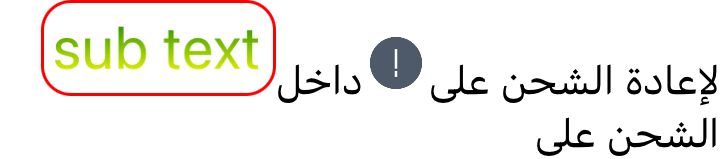
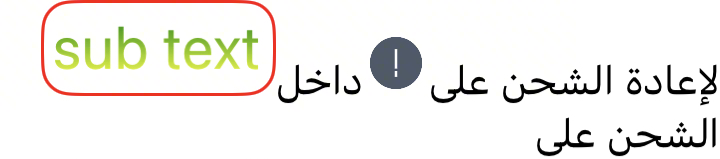
[Infra] use 15.6.1 macos runners and remove bundler
1. use the 15.6.1 macos with Xcode26.3
2. Since using CocoaPods via Bundler tends to cause inconsistent issues across different environments, we will no longer use Bundler and instead rely directly on the globally installed CocoaPods.

Pull request: [Infra] use 15.6.1 macos runners and remove bundler
1. use the 15.6.1 macos with Xcode26.3
2. Since using CocoaPods via Bundler tends to cause inconsistent issues across different environments, we will no longer use Bundler and instead rely directly on the globally installed CocoaPods.

<!--
  Thank you for submitting a pull request!

  We appreciate the time and effort you have invested in making these changes. Please ensure that you provide enough information to allow others to review your pull request.

  Upon submission, your pull request will be automatically assigned with reviewers.

  If you want to learn more about contributing to this project, please visit: https://github.com/lynx-family/lynx/blob/develop/CONTRIBUTING.md.
-->

## Summary

<!-- Can you explain the reasoning behind implementing this change? What problem or issue does this pull request resolve? -->

<!-- It would be helpful if you could provide any relevant context, such as GitHub issues or related discussions. -->

## Checklist

<!--- Check and mark with an "x" -->

- [ ] Tests updated (or not required).
- [ ] Documentation updated (or not required).

Changed region(s): [[0.0306, 0.0503, 0.3972, 0.5535], [0.0611, 0.478, 0.3667, 0.6038], [0.0611, 0.0, 0.3667, 0.1258]]

diff --git a/platform/darwin/ios/lynx/gesture/LynxCustomGestureRecognizerUnitTest.m b/platform/darwin/ios/lynx/gesture/LynxCustomGestureRecognizerUnitTest.m
@@ -2,11 +2,25 @@
 // Licensed under the Apache License Version 2.0 that can be found in the
 // LICENSE file in the root directory of this source tree.
 
+#import <UIKit/UIKit.h>
 #import <XCTest/XCTest.h>
 #import "LynxCustomGestureRecognizer.h"
 
 @interface LynxCustomGestureRecognizerUnitTest : XCTestCase
 
+@end
+
+@interface TestLynxCustomGestureRecognizer : LynxCustomGestureRecognizer
+@property(nonatomic, assign) UIGestureRecognizerState testState;
+@end
+
+@implementation TestLynxCustomGestureRecognizer
+- (UIGestureRecognizerState)state {
+  return self.testState;
+}
+- (void)setState:(UIGestureRecognizerState)state {
+  self.testState = state;
+}
 @end
 
 @implementation LynxCustomGestureRecognizerUnitTest
@@ -31,14 +45,16 @@
 }
 
 - (void)testBeginGesture {
-  LynxCustomGestureRecognizer *gestureRecognizer = [[LynxCustomGestureRecognizer alloc] init];
+  TestLynxCustomGestureRecognizer *gestureRecognizer =
+      [[TestLynxCustomGestureRecognizer alloc] init];
   [gestureRecognizer beginGesture];
   XCTAssertEqual(gestureRecognizer.state, UIGestureRecognizerStateBegan,
                  @"Gesture state should be Began");
 }
 
 - (void)testChangeGesture {
-  LynxCustomGestureRecognizer *gestureRecognizer = [[LynxCustomGestureRecognizer alloc] init];
+  TestLynxCustomGestureRecognizer *gestureRecognizer =
+      [[TestLynxCustomGestureRecognizer alloc] init];
   [gestureRecognizer beginGesture];
   [gestureRecognizer changeGesture];
   XCTAssertEqual(gestureRecognizer.state, UIGestureRecognizerStateChanged,
@@ -46,14 +62,18 @@
 }
 
 - (void)testEndGesture {
-  LynxCustomGestureRecognizer *gestureRecognizer = [[LynxCustomGestureRecognizer alloc] init];
+  TestLynxCustomGestureRecognizer *gestureRecognizer =
+      [[TestLynxCustomGestureRecognizer alloc] init];
+  [gestureRecognizer beginGesture];
   [gestureRecognizer endGesture];
   XCTAssertEqual(gestureRecognizer.state, UIGestureRecognizerStateEnded,
                  @"Gesture state should be Ended");
 }
 
 - (void)testFailGesture {
-  LynxCustomGestureRecognizer *gestureRecognizer = [[LynxCustomGestureRecognizer alloc] init];
+  TestLynxCustomGestureRecognizer *gestureRecognizer =
+      [[TestLynxCustomGestureRecognizer alloc] init];
+  [gestureRecognizer beginGesture];
   [gestureRecognizer failGesture];
   XCTAssertEqual(gestureRecognizer.state, UIGestureRecognizerStateFailed,
                  @"Gesture state should be Failed");

diff --git a/platform/darwin/ios/lynx/ui/scroll_view/LynxUIScrollerBasicUnitTest.m b/platform/darwin/ios/lynx/ui/scroll_view/LynxUIScrollerBasicUnitTest.m
@@ -204,12 +204,12 @@
   XCTAssert(scroller.view.contentOffset.x > 0);
 
   [LynxUIMethodProcessor invokeMethod:@"autoScroll"
-                           withParams:@{@"start" : @YES, @"rate" : @1000}
+                           withParams:@{@"start" : @YES, @"rate" : @2000}
                            withResult:callBack
                                 forUI:scroller];
   XCTestExpectation *expectationReachEnd =
       [self expectationWithDescription:@"Testing auto scroll hit the border and stop"];
-  dispatch_after(dispatch_time(DISPATCH_TIME_NOW, 1 * NSEC_PER_SEC), dispatch_get_main_queue(), ^{
+  dispatch_after(dispatch_time(DISPATCH_TIME_NOW, 2 * NSEC_PER_SEC), dispatch_get_main_queue(), ^{
     [expectationReachEnd fulfill];
   });
   [self waitForExpectations:@[ expectationReachEnd ] timeout:3];
@@ -255,12 +255,12 @@
   XCTAssert(scroller.view.contentOffset.y > 0);
 
   [LynxUIMethodProcessor invokeMethod:@"autoScroll"
-                           withParams:@{@"start" : @YES, @"rate" : @1000}
+                           withParams:@{@"start" : @YES, @"rate" : @2000}
                            withResult:callBack
                                 forUI:scroller];
   XCTestExpectation *expectationReachEnd =
       [self expectationWithDescription:@"Testing auto scroll hit the border and stop"];
-  dispatch_after(dispatch_time(DISPATCH_TIME_NOW, 1 * NSEC_PER_SEC), dispatch_get_main_queue(), ^{
+  dispatch_after(dispatch_time(DISPATCH_TIME_NOW, 2 * NSEC_PER_SEC), dispatch_get_main_queue(), ^{
     [expectationReachEnd fulfill];
   });
   [self waitForExpectations:@[ expectationReachEnd ] timeout:3];

diff --git a/explorer/darwin/ios/README.md b/explorer/darwin/ios/README.md
@@ -12,6 +12,7 @@ This document provides instructions for building the Lynx Explorer iOS app from 
 The following dependencies are needed:
 
 - Xcode(>=15.0)
+- Cocoapods(>=1.11.3)
 - Python library
 
 We recommend using [Homebrew](https://brew.sh/) to install the dependencies.
@@ -76,10 +77,3 @@ By default, the project doesn't configure the "Team" for signing. If you want to
 3. Update the "Bundle Identifier" from `com.lynx.LynxExplorer` to a unique identifier like `com.<your-name>.LynxExplorer`. This step ensures the identifier is unique and available for your use.
 4. Enable the "Automatically manage signing" option to allow Xcode to handle the app signing process automatically.
 
-### Handle Error when Installing Ruby Gems
-
-When running `./bundle_install.sh` command, if you encounter the following problems: *Bundler::GemNotFound: Your bundle is lock to xxx, but that version could not be found in any of the sources listed in Gemfile...* You can try running the following commands to fix the problem:
-```
-SDKROOT=/Library/Developer/CommandLineTools/SDKs/MacOSX.sdk bundle install
-./bundle_install.sh
-```